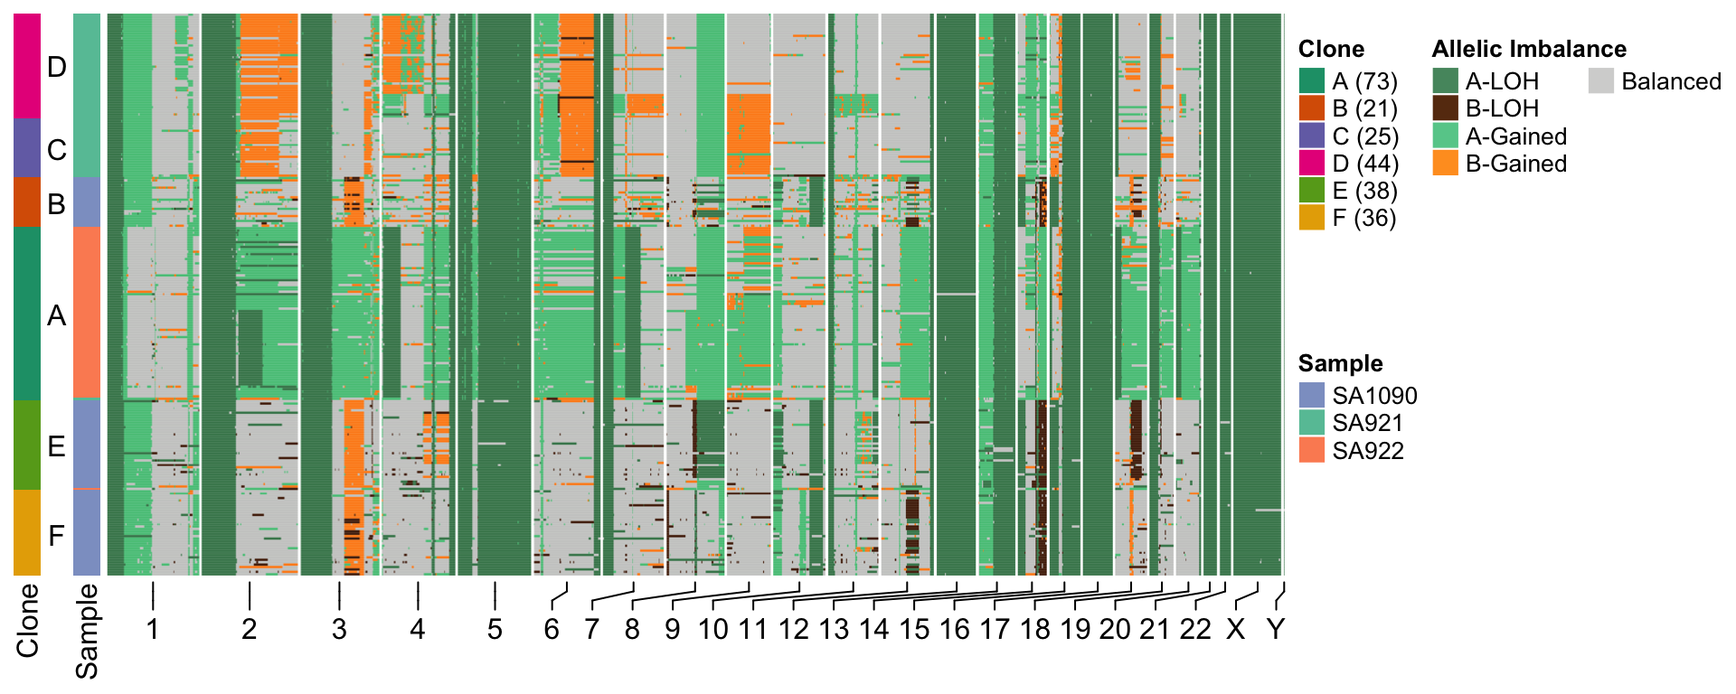
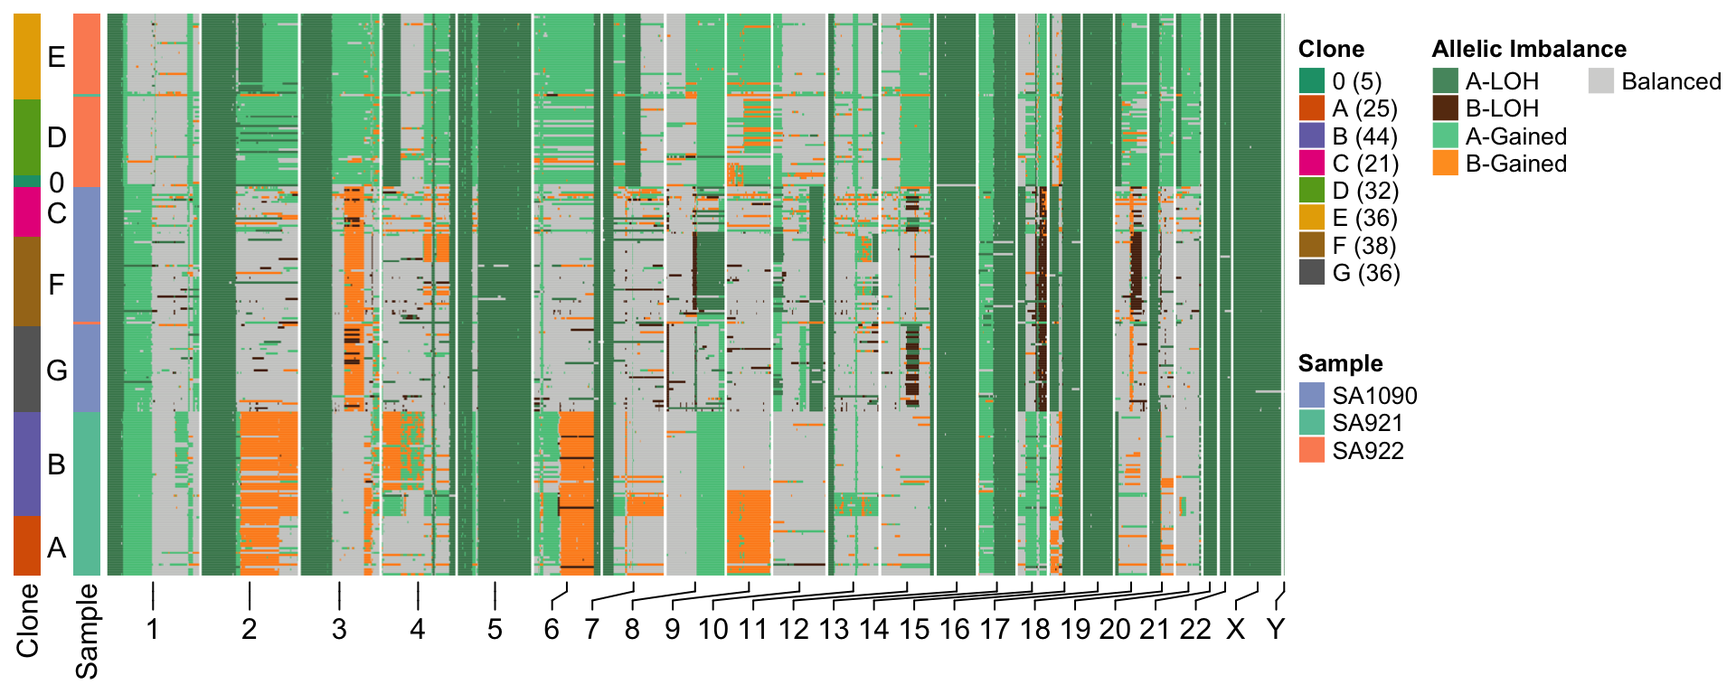
Built site for schnapps: 0.1.0@58209f3

Changed region(s): [[0.0, 0.0, 0.7188, 0.8438], [0.75, 0.0938, 0.8125, 0.4062]]

diff --git a/articles/ASCN.html b/articles/ASCN.html
@@ -141,28 +141,16 @@
 <p><img src="ASCN_files/figure-html/unnamed-chunk-6-1.png" width="960"></p>
 <p>Now we can plot the copy number heatmaps. First we’ll plot the heatmap based on copy number states. By default the <code>plotHeatmap</code> function does some clustering using hdbscan, we’ll set a seed so we get the same clustering for each of the heatmaps below.</p>
 <div class="sourceCode" id="cb7"><html><body><pre class="r"><span class="fu"><a href="https://rdrr.io/r/base/Random.html">set.seed</a></span>(<span class="fl">1</span>)
-<span class="fu">plotHeatmap</span>(<span class="no">ascn</span>, <span class="kw">plotcol</span> <span class="kw">=</span> <span class="st">"state"</span>, <span class="kw">plottree</span> <span class="kw">=</span> <span class="fl">FALSE</span>, <span class="kw">spacer_cols</span> <span class="kw">=</span> <span class="fl">15</span>)
-<span class="co">#&gt; </span>
-<span class="co">#&gt;  0  A  B  C  D  E  F  G </span>
-<span class="co">#&gt;  9 35 25 21 36 36 37 36</span></pre></body></html></div>
+<span class="fu">plotHeatmap</span>(<span class="no">ascn</span>, <span class="kw">plotcol</span> <span class="kw">=</span> <span class="st">"state"</span>, <span class="kw">plottree</span> <span class="kw">=</span> <span class="fl">FALSE</span>, <span class="kw">spacer_cols</span> <span class="kw">=</span> <span class="fl">15</span>)</pre></body></html></div>
 <p><img src="ASCN_files/figure-html/unnamed-chunk-7-1.png" width="960"></p>
 <p>Now we can plot some heatmaps to visualize the allele specific state. This heatmap plots the minor copy number state.</p>
-<div class="sourceCode" id="cb8"><html><body><pre class="r"><span class="fu">plotHeatmap</span>(<span class="no">ascn</span>, <span class="kw">plotcol</span> <span class="kw">=</span> <span class="st">"state_min"</span>, <span class="kw">plottree</span> <span class="kw">=</span> <span class="fl">FALSE</span>, <span class="kw">spacer_cols</span> <span class="kw">=</span> <span class="fl">15</span>)
-<span class="co">#&gt; </span>
-<span class="co">#&gt;  0  A  B  C  D  E  F  G </span>
-<span class="co">#&gt;  9 35 25 21 36 36 37 36</span></pre></body></html></div>
+<div class="sourceCode" id="cb8"><html><body><pre class="r"><span class="fu">plotHeatmap</span>(<span class="no">ascn</span>, <span class="kw">plotcol</span> <span class="kw">=</span> <span class="st">"state_min"</span>, <span class="kw">plottree</span> <span class="kw">=</span> <span class="fl">FALSE</span>, <span class="kw">spacer_cols</span> <span class="kw">=</span> <span class="fl">15</span>)</pre></body></html></div>
 <p><img src="ASCN_files/figure-html/unnamed-chunk-8-1.png" width="960"></p>
 <p>Allelic imbalance:</p>
-<div class="sourceCode" id="cb9"><html><body><pre class="r"><span class="fu">plotHeatmap</span>(<span class="no">ascn</span>, <span class="kw">plotcol</span> <span class="kw">=</span> <span class="st">"state_BAF"</span>, <span class="kw">plottree</span> <span class="kw">=</span> <span class="fl">FALSE</span>, <span class="kw">spacer_cols</span> <span class="kw">=</span> <span class="fl">15</span>)
-<span class="co">#&gt; </span>
-<span class="co">#&gt;  0  A  B  C  D  E  F  G </span>
-<span class="co">#&gt;  9 35 25 21 36 36 37 36</span></pre></body></html></div>
+<div class="sourceCode" id="cb9"><html><body><pre class="r"><span class="fu">plotHeatmap</span>(<span class="no">ascn</span>, <span class="kw">plotcol</span> <span class="kw">=</span> <span class="st">"state_BAF"</span>, <span class="kw">plottree</span> <span class="kw">=</span> <span class="fl">FALSE</span>, <span class="kw">spacer_cols</span> <span class="kw">=</span> <span class="fl">15</span>)</pre></body></html></div>
 <p><img src="ASCN_files/figure-html/unnamed-chunk-9-1.png" width="960"></p>
 <p>Discrete representation of allelic imbalance:</p>
-<div class="sourceCode" id="cb10"><html><body><pre class="r"><span class="fu">plotHeatmap</span>(<span class="no">ascn</span>, <span class="kw">plotcol</span> <span class="kw">=</span> <span class="st">"state_phase"</span>, <span class="kw">plottree</span> <span class="kw">=</span> <span class="fl">FALSE</span>, <span class="kw">spacer_cols</span> <span class="kw">=</span> <span class="fl">15</span>)
-<span class="co">#&gt; </span>
-<span class="co">#&gt;  0  A  B  C  D  E  F  G </span>
-<span class="co">#&gt;  9 35 25 21 36 36 37 36</span></pre></body></html></div>
+<div class="sourceCode" id="cb10"><html><body><pre class="r"><span class="fu">plotHeatmap</span>(<span class="no">ascn</span>, <span class="kw">plotcol</span> <span class="kw">=</span> <span class="st">"state_phase"</span>, <span class="kw">plottree</span> <span class="kw">=</span> <span class="fl">FALSE</span>, <span class="kw">spacer_cols</span> <span class="kw">=</span> <span class="fl">15</span>)</pre></body></html></div>
 <p><img src="ASCN_files/figure-html/unnamed-chunk-10-1.png" width="960"></p>
 <p>There are also some function to plot per cell BAF and state plots. You can specify a cell, or the default will take the first cell in the data frame.</p>
 <div class="sourceCode" id="cb11"><html><body><pre class="r"><span class="fu">plotCNprofileBAF</span>(<span class="no">ascn</span>)</pre></body></html></div>
@@ -187,26 +175,17 @@
 <a href="#callhaplotypespecificcn" class="anchor"></a><code>callHaplotypeSpecificCN</code>
 </h3>
 <p>Now we’ll do the analysis that phases haplotypes across cells.</p>
-<div class="sourceCode" id="cb13"><html><body><pre class="r"><span class="no">hscn</span> <span class="kw">&lt;-</span> <span class="fu"><a href="../reference/callHaplotypeSpecificCN.html">callHaplotypeSpecificCN</a></span>(<span class="no">CNbins</span>, <span class="no">haplotypes</span>, <span class="kw">phasebyarm</span> <span class="kw">=</span> <span class="fl">FALSE</span>)
-<span class="co">#&gt; </span>
-<span class="co">#&gt;  A  B  C </span>
-<span class="co">#&gt; 90 72 73</span></pre></body></html></div>
+<div class="sourceCode" id="cb13"><html><body><pre class="r"><span class="no">hscn</span> <span class="kw">&lt;-</span> <span class="fu"><a href="../reference/callHaplotypeSpecificCN.html">callHaplotypeSpecificCN</a></span>(<span class="no">CNbins</span>, <span class="no">haplotypes</span>, <span class="kw">phasebyarm</span> <span class="kw">=</span> <span class="fl">FALSE</span>)</pre></body></html></div>
 <p>We’ll now generate the same plots as before. We can see in the BAF per state plot that we now observe states with BAF &gt; 0.5 meaning that we see different alleles gained or lost in different cells.</p>
 <div class="sourceCode" id="cb14"><html><body><pre class="r"><span class="fu">plotBAFperstate</span>(<span class="no">hscn</span>, <span class="kw">maxstate</span> <span class="kw">=</span> <span class="fl">10</span>)</pre></body></html></div>
 <p><img src="ASCN_files/figure-html/unnamed-chunk-14-1.png" width="960"></p>
 <p>In the allelic imbalance heatmap we can see that some cells have gained the “B” allele and others the “A” allele resulting in imbalance spanning from 0 to 1.</p>
 <div class="sourceCode" id="cb15"><html><body><pre class="r"><span class="fu"><a href="https://rdrr.io/r/base/Random.html">set.seed</a></span>(<span class="fl">1</span>)
-<span class="fu">plotHeatmap</span>(<span class="no">hscn</span>, <span class="kw">plotcol</span> <span class="kw">=</span> <span class="st">"state_BAF"</span>, <span class="kw">plottree</span> <span class="kw">=</span> <span class="fl">FALSE</span>, <span class="kw">spacer_cols</span> <span class="kw">=</span> <span class="fl">15</span>)
-<span class="co">#&gt; </span>
-<span class="co">#&gt;  A  B  C  D  E  F  G </span>
-<span class="co">#&gt; 21 25 44 36 36 37 36</span></pre></body></html></div>
+<span class="fu">plotHeatmap</span>(<span class="no">hscn</span>, <span class="kw">plotcol</span> <span class="kw">=</span> <span class="st">"state_BAF"</span>, <span class="kw">plottree</span> <span class="kw">=</span> <span class="fl">FALSE</span>, <span class="kw">spacer_cols</span> <span class="kw">=</span> <span class="fl">15</span>)</pre></body></html></div>
 <p><img src="ASCN_files/figure-html/unnamed-chunk-15-1.png" width="960"></p>
 <p>In the discrete version of this plot we see similar patterns.</p>
 <div class="sourceCode" id="cb16"><html><body><pre class="r"><span class="fu"><a href="https://rdrr.io/r/base/Random.html">set.seed</a></span>(<span class="fl">1</span>)
-<span class="fu">plotHeatmap</span>(<span class="no">hscn</span>, <span class="kw">plotcol</span> <span class="kw">=</span> <span class="st">"state_phase"</span>, <span class="kw">plottree</span> <span class="kw">=</span> <span class="fl">FALSE</span>, <span class="kw">spacer_cols</span> <span class="kw">=</span> <span class="fl">15</span>)
-<span class="co">#&gt; </span>
-<span class="co">#&gt;  A  B  C  D  E  F  G </span>
-<span class="co">#&gt; 21 25 44 36 36 37 36</span></pre></body></html></div>
+<span class="fu">plotHeatmap</span>(<span class="no">hscn</span>, <span class="kw">plotcol</span> <span class="kw">=</span> <span class="st">"state_phase"</span>, <span class="kw">plottree</span> <span class="kw">=</span> <span class="fl">FALSE</span>, <span class="kw">spacer_cols</span> <span class="kw">=</span> <span class="fl">15</span>)</pre></body></html></div>
 <p><img src="ASCN_files/figure-html/unnamed-chunk-16-1.png" width="960"></p>
 <div class="sourceCode" id="cb17"><html><body><pre class="r"><span class="fu">plotCNprofileBAF</span>(<span class="no">hscn</span>)</pre></body></html></div>
 <p><img src="ASCN_files/figure-html/unnamed-chunk-17-1.png" width="960"></p>
@@ -230,24 +209,15 @@
 <div class="sourceCode" id="cb19"><html><body><pre class="r"><span class="no">CNbins_wide</span> <span class="kw">&lt;-</span> <span class="fu">widen_bins</span>(<span class="no">CNbins</span>, <span class="kw">binsize</span> <span class="kw">=</span> <span class="fl">2e6</span>)
 <span class="no">haplotypes_wide</span> <span class="kw">&lt;-</span> <span class="fu">widen_haplotypebins</span>(<span class="no">haplotypes</span>, <span class="kw">binsize</span> <span class="kw">=</span> <span class="fl">2e6</span>)
 
-<span class="no">hscn_wide</span> <span class="kw">&lt;-</span> <span class="fu"><a href="../reference/callHaplotypeSpecificCN.html">callHaplotypeSpecificCN</a></span>(<span class="no">CNbins_wide</span>, <span class="no">haplotypes_wide</span>, <span class="kw">minbins</span> <span class="kw">=</span> <span class="fl">10</span>, <span class="kw">minbinschr</span> <span class="kw">=</span> <span class="fl">2</span>)
-<span class="co">#&gt; </span>
-<span class="co">#&gt;  A  B  C </span>
-<span class="co">#&gt; 72 90 73</span></pre></body></html></div>
+<span class="no">hscn_wide</span> <span class="kw">&lt;-</span> <span class="fu"><a href="../reference/callHaplotypeSpecificCN.html">callHaplotypeSpecificCN</a></span>(<span class="no">CNbins_wide</span>, <span class="no">haplotypes_wide</span>, <span class="kw">minbins</span> <span class="kw">=</span> <span class="fl">10</span>, <span class="kw">minbinschr</span> <span class="kw">=</span> <span class="fl">2</span>)</pre></body></html></div>
 <div class="sourceCode" id="cb20"><html><body><pre class="r"><span class="fu">plotBAFperstate</span>(<span class="no">hscn_wide</span>, <span class="kw">maxstate</span> <span class="kw">=</span> <span class="fl">10</span>)</pre></body></html></div>
 <p><img src="ASCN_files/figure-html/unnamed-chunk-20-1.png" width="960"></p>
 <div class="sourceCode" id="cb21"><html><body><pre class="r"><span class="fu"><a href="https://rdrr.io/r/base/Random.html">set.seed</a></span>(<span class="fl">1</span>)
-<span class="fu">plotHeatmap</span>(<span class="no">hscn_wide</span>, <span class="kw">plotcol</span> <span class="kw">=</span> <span class="st">"state_BAF"</span>, <span class="kw">plottree</span> <span class="kw">=</span> <span class="fl">FALSE</span>, <span class="kw">spacer_cols</span> <span class="kw">=</span> <span class="fl">3</span>)
-<span class="co">#&gt; </span>
-<span class="co">#&gt;  A  B  C  D  E  F </span>
-<span class="co">#&gt; 73 21 25 44 38 36</span></pre></body></html></div>
+<span class="fu">plotHeatmap</span>(<span class="no">hscn_wide</span>, <span class="kw">plotcol</span> <span class="kw">=</span> <span class="st">"state_BAF"</span>, <span class="kw">plottree</span> <span class="kw">=</span> <span class="fl">FALSE</span>, <span class="kw">spacer_cols</span> <span class="kw">=</span> <span class="fl">3</span>)</pre></body></html></div>
 <p><img src="ASCN_files/figure-html/unnamed-chunk-21-1.png" width="960"></p>
 <p>In the discrete version of this plot we see similar patterns.</p>
 <div class="sourceCode" id="cb22"><html><body><pre class="r"><span class="fu"><a href="https://rdrr.io/r/base/Random.html">set.seed</a></span>(<span class="fl">1</span>)
-<span class="fu">plotHeatmap</span>(<span class="no">hscn_wide</span>, <span class="kw">plotcol</span> <span class="kw">=</span> <span class="st">"state_phase"</span>, <span class="kw">plottree</span> <span class="kw">=</span> <span class="fl">FALSE</span>, <span class="kw">spacer_cols</span> <span class="kw">=</span> <span class="fl">3</span>)
-<span class="co">#&gt; </span>
-<span class="co">#&gt;  A  B  C  D  E  F </span>
-<span class="co">#&gt; 73 21 25 44 38 36</span></pre></body></html></div>
+<span class="fu">plotHeatmap</span>(<span class="no">hscn_wide</span>, <span class="kw">plotcol</span> <span class="kw">=</span> <span class="st">"state_phase"</span>, <span class="kw">plottree</span> <span class="kw">=</span> <span class="fl">FALSE</span>, <span class="kw">spacer_cols</span> <span class="kw">=</span> <span class="fl">3</span>)</pre></body></html></div>
 <p><img src="ASCN_files/figure-html/unnamed-chunk-22-1.png" width="960"></p>
 <div class="sourceCode" id="cb23"><html><body><pre class="r"><span class="fu">plotCNprofileBAF</span>(<span class="no">hscn_wide</span>)</pre></body></html></div>
 <p><img src="ASCN_files/figure-html/unnamed-chunk-23-1.png" width="960"></p>

diff --git a/reference/callHaplotypeSpecificCN.html b/reference/callHaplotypeSpecificCN.html
@@ -131,10 +131,11 @@
     </div>
 
     <pre class="usage"><span class='fu'>callHaplotypeSpecificCN</span>(<span class='no'>CNbins</span>, <span class='no'>haplotypes</span>, <span class='kw'>eps</span> <span class='kw'>=</span> <span class='fl'>1e-12</span>,
-  <span class='kw'>loherror</span> <span class='kw'>=</span> <span class='fl'>0.02</span>, <span class='kw'>maxCN</span> <span class='kw'>=</span> <span class='fl'>12</span>, <span class='kw'>selftransitionprob</span> <span class='kw'>=</span> <span class='fl'>0.999</span>,
+  <span class='kw'>loherror</span> <span class='kw'>=</span> <span class='fl'>0.02</span>, <span class='kw'>maxCN</span> <span class='kw'>=</span> <span class='kw'>NULL</span>, <span class='kw'>selftransitionprob</span> <span class='kw'>=</span> <span class='fl'>0.999</span>,
   <span class='kw'>progressbar</span> <span class='kw'>=</span> <span class='fl'>TRUE</span>, <span class='kw'>ncores</span> <span class='kw'>=</span> <span class='fl'>1</span>, <span class='kw'>phasebyarm</span> <span class='kw'>=</span> <span class='fl'>FALSE</span>,
   <span class='kw'>minfrac</span> <span class='kw'>=</span> <span class='fl'>0.95</span>, <span class='kw'>likelihood</span> <span class='kw'>=</span> <span class='st'>"binomial"</span>, <span class='kw'>minbins</span> <span class='kw'>=</span> <span class='fl'>100</span>,
-  <span class='kw'>minbinschr</span> <span class='kw'>=</span> <span class='fl'>10</span>, <span class='kw'>phased_haplotypes</span> <span class='kw'>=</span> <span class='kw'>NULL</span>)</pre>
+  <span class='kw'>minbinschr</span> <span class='kw'>=</span> <span class='fl'>10</span>, <span class='kw'>phased_haplotypes</span> <span class='kw'>=</span> <span class='kw'>NULL</span>,
+  <span class='kw'>clustering_method</span> <span class='kw'>=</span> <span class='st'>"copy"</span>)</pre>
 
     <h2 class="hasAnchor" id="arguments"><a class="anchor" href="#arguments"></a>Arguments</h2>
     <table class="ref-arguments">
@@ -157,7 +158,7 @@
     </tr>
     <tr>
       <th>maxCN</th>
-      <td><p>maximum copy number to infer allele specific states, default=12</p></td>
+      <td><p>maximum copy number to infer allele specific states, default=NULL which will use the maximum state from CNbins</p></td>
     </tr>
     <tr>
       <th>selftransitionprob</th>
@@ -172,8 +173,28 @@
       <td><p>Number of cores to use, default = 1</p></td>
     </tr>
     <tr>
+      <th>minfrac</th>
+      <td><p>Minimum proportion of haplotypes to retain when clustering + phasing</p></td>
+    </tr>
+    <tr>
       <th>likelihood</th>
       <td><p>Likelihood model for HMM, default is <code>binomial</code>, other option is <code>betabinomial</code> or use <code>auto</code> and the algorithm will choose the likelihood that best fits the data.</p></td>
+    </tr>
+    <tr>
+      <th>minbins</th>
+      <td><p>Minimum number of bins containing both haplotype counts and copy number data for a cell to be included</p></td>
+    </tr>
+    <tr>
+      <th>minbinschr</th>
+      <td><p>Minimum number of bins containing both haplotype counts and copy number data per chromosome for a cell to be included</p></td>
+    </tr>
+    <tr>
+      <th>phased_haplotypes</th>
+      <td><p>Use this if you want to manually define the haplotypes phasing if for example the default heuristics used by schnapps does not return a good fit.</p></td>
+    </tr>
+    <tr>
+      <th>clustering_method</th>
+      <td><p>Method to use to cluster cells for haplotype phasing, default is <code>copy</code>, other option is <code>breakpoints</code></p></td>
     </tr>
     </table>
 
@@ -196,9 +217,7 @@
                        <span class='fu'><a href='https://rdrr.io/r/base/list.html'>list</a></span>(<span class='st'>"2"</span> <span class='kw'>=</span> <span class='fu'><a href='https://rdrr.io/r/base/c.html'>c</a></span>(<span class='fl'>6</span>,<span class='fl'>3</span>), <span class='st'>"3"</span> <span class='kw'>=</span> <span class='fu'><a href='https://rdrr.io/r/base/c.html'>c</a></span>(<span class='fl'>1</span>,<span class='fl'>0</span>))),
        <span class='kw'>loherror</span> <span class='kw'>=</span> <span class='fl'>0.02</span>,
        <span class='kw'>coverage</span> <span class='kw'>=</span> <span class='fl'>30</span>)</div><div class='output co'>#&gt; <span class='message'>Joining, by = c("chr", "start", "end", "hap_label")</span></div><div class='input'>
-<span class='no'>results</span> <span class='kw'>&lt;-</span> <span class='fu'>callHaplotypeSpecificCN</span>(<span class='no'>sim_data</span>$<span class='no'>CNbins</span>, <span class='no'>sim_data</span>$<span class='no'>haplotypes</span>)</div><div class='output co'>#&gt; <span class='message'>Finding overlapping cell IDs between CN data and haplotype data...</span></div><div class='output co'>#&gt; <span class='message'>Total number of cells in both CN and haplotypes: 40</span></div><div class='output co'>#&gt; <span class='message'>Number of cells in CN data: 40</span></div><div class='output co'>#&gt; <span class='message'>Removing cells from CN data...</span></div><div class='output co'>#&gt; <span class='message'>Number of cells in haplotype data: 40</span></div><div class='output co'>#&gt; <span class='message'>Removing cells from haplotype data...</span></div><div class='output co'>#&gt; <span class='message'>Reformatting haplotypes</span></div><div class='output co'>#&gt; <span class='message'>Pivot data frame...</span></div><div class='output co'>#&gt; <span class='message'>Phase haplotypes...</span></div><div class='output co'>#&gt; <span class='message'>Phasing based on distribution across all cells</span></div><div class='output co'>#&gt; <span class='message'>Join phased haplotypes...</span></div><div class='output co'>#&gt; <span class='message'>Reorder haplotypes based on phase...</span></div><div class='output co'>#&gt; <span class='message'>Joining bins and haplotypes...</span></div><div class='output co'>#&gt; <span class='message'>Calculate BAF per bin...</span></div><div class='output co'>#&gt; <span class='message'>Total number of cells after removing cells with &lt; 100 bins: 40</span></div><div class='output co'>#&gt; <span class='message'>Using 2 cells for clustering...</span></div><div class='output co'>#&gt; <span class='message'>Creating CN matrix...</span></div><div class='output co'>#&gt; <span class='message'>Calculating UMAP dimensionality reduction...</span></div><div class='output co'>#&gt; <span class='message'>Clustering cells using hdbscan...</span></div><div class='output co'>#&gt; <span class='message'>Identified 2 clusters</span></div><div class='output co'>#&gt; <span class='message'>Distribution of clusters:</span></div><div class='output co'>#&gt; 
-#&gt;  A  B 
-#&gt; 20 20 </div><div class='output co'>#&gt; <span class='message'>Joining, by = "cell_id"</span></div><div class='output co'>#&gt; <span class='message'>Phasing by chromosome (not arm level)..</span></div><div class='output co'>#&gt; <span class='message'>Finding overlapping cell IDs between CN data and haplotype data...</span></div><div class='output co'>#&gt; <span class='message'>Total number of cells in both CN and haplotypes: 40</span></div><div class='output co'>#&gt; <span class='message'>Number of cells in CN data: 40</span></div><div class='output co'>#&gt; <span class='message'>Removing cells from CN data...</span></div><div class='output co'>#&gt; <span class='message'>Number of cells in haplotype data: 40</span></div><div class='output co'>#&gt; <span class='message'>Removing cells from haplotype data...</span></div><div class='output co'>#&gt; <span class='message'>Reformatting haplotypes</span></div><div class='output co'>#&gt; <span class='message'>Pivot data frame...</span></div><div class='output co'>#&gt; <span class='message'>Phase haplotypes...</span></div><div class='output co'>#&gt; <span class='message'>Join phased haplotypes...</span></div><div class='output co'>#&gt; <span class='message'>Reorder haplotypes based on phase...</span></div><div class='output co'>#&gt; <span class='message'>Joining bins and haplotypes...</span></div><div class='output co'>#&gt; <span class='message'>Calculate BAF per bin...</span></div><div class='output co'>#&gt; <span class='message'>Total number of cells after removing cells with &lt; 100 bins: 40</span></div><div class='output co'>#&gt; <span class='message'>Average distance from median to expected BAF = 0.0068</span></div><div class='input'>
+<span class='no'>results</span> <span class='kw'>&lt;-</span> <span class='fu'>callHaplotypeSpecificCN</span>(<span class='no'>sim_data</span>$<span class='no'>CNbins</span>, <span class='no'>sim_data</span>$<span class='no'>haplotypes</span>)</div><div class='output co'>#&gt; <span class='message'>Finding overlapping cell IDs between CN data and haplotype data...</span></div><div class='output co'>#&gt; <span class='message'>Total number of cells in both CN and haplotypes: 40</span></div><div class='output co'>#&gt; <span class='message'>Number of cells in CN data: 40</span></div><div class='output co'>#&gt; <span class='message'>Removing cells from CN data...</span></div><div class='output co'>#&gt; <span class='message'>Number of cells in haplotype data: 40</span></div><div class='output co'>#&gt; <span class='message'>Removing cells from haplotype data...</span></div><div class='output co'>#&gt; <span class='message'>Reformatting haplotypes</span></div><div class='output co'>#&gt; <span class='message'>Pivot data frame...</span></div><div class='output co'>#&gt; <span class='message'>Phase haplotypes...</span></div><div class='output co'>#&gt; <span class='message'>Phasing based on distribution across all cells</span></div><div class='output co'>#&gt; <span class='message'>Join phased haplotypes...</span></div><div class='output co'>#&gt; <span class='message'>Reorder haplotypes based on phase...</span></div><div class='output co'>#&gt; <span class='message'>Joining bins and haplotypes...</span></div><div class='output co'>#&gt; <span class='message'>Calculate BAF per bin...</span></div><div class='output co'>#&gt; <span class='message'>Total number of cells after removing cells with &lt; 100 bins: 40</span></div><div class='output co'>#&gt; <span class='message'>Using 2 cells for clustering...</span></div><div class='output co'>#&gt; <span class='message'>Creating CN matrix...</span></div><div class='output co'>#&gt; <span class='message'>Calculating UMAP dimensionality reduction...</span></div><div class='output co'>#&gt; <span class='message'>Clustering cells using hdbscan...</span></div><div class='output co'>#&gt; <span class='message'>Identified 2 clusters</span></div><div class='output co'>#&gt; <span class='message'>Distribution of clusters:</span></div><div class='output co'>#&gt; <span class='message'>  Cluster A:20</span></div><div class='output co'>#&gt; <span class='message'>  Cluster B:20</span></div><div class='output co'>#&gt; <span class='message'>Joining, by = "cell_id"</span></div><div class='output co'>#&gt; <span class='message'>Phasing by chromosome (not arm level)..</span></div><div class='output co'>#&gt; <span class='message'>Finding overlapping cell IDs between CN data and haplotype data...</span></div><div class='output co'>#&gt; <span class='message'>Total number of cells in both CN and haplotypes: 40</span></div><div class='output co'>#&gt; <span class='message'>Number of cells in CN data: 40</span></div><div class='output co'>#&gt; <span class='message'>Removing cells from CN data...</span></div><div class='output co'>#&gt; <span class='message'>Number of cells in haplotype data: 40</span></div><div class='output co'>#&gt; <span class='message'>Removing cells from haplotype data...</span></div><div class='output co'>#&gt; <span class='message'>Reformatting haplotypes</span></div><div class='output co'>#&gt; <span class='message'>Pivot data frame...</span></div><div class='output co'>#&gt; <span class='message'>Phase haplotypes...</span></div><div class='output co'>#&gt; <span class='message'>Join phased haplotypes...</span></div><div class='output co'>#&gt; <span class='message'>Reorder haplotypes based on phase...</span></div><div class='output co'>#&gt; <span class='message'>Joining bins and haplotypes...</span></div><div class='output co'>#&gt; <span class='message'>Calculate BAF per bin...</span></div><div class='output co'>#&gt; <span class='message'>Total number of cells after removing cells with &lt; 100 bins: 40</span></div><div class='output co'>#&gt; <span class='message'>Average distance from median to expected BAF = 0.0068</span></div><div class='input'>
 </div></pre>
   </div>
   <div class="col-md-3 hidden-xs hidden-sm" id="pkgdown-sidebar">

diff --git a/articles/BetaBinom.html b/articles/BetaBinom.html
@@ -101,9 +101,6 @@
 <span class="fu"><a href="https://rdrr.io/r/utils/data.html">data</a></span>(<span class="st">"CNbins"</span>)
 <span class="no">haplotypes</span> <span class="kw">&lt;-</span> <span class="fu">format_haplotypes_dlp</span>(<span class="no">haplotypes</span>, <span class="no">CNbins</span>)
 <span class="no">hscn</span> <span class="kw">&lt;-</span> <span class="fu"><a href="../reference/callHaplotypeSpecificCN.html">callHaplotypeSpecificCN</a></span>(<span class="no">CNbins</span>, <span class="no">haplotypes</span>, <span class="kw">likelihood</span> <span class="kw">=</span> <span class="st">"binomial"</span>)
-<span class="co">#&gt; </span>
-<span class="co">#&gt;  A  B  C </span>
-<span class="co">#&gt; 90 72 73</span>
 
 <span class="fu"><a href="https://rdrr.io/r/base/print.html">print</a></span>(<span class="no">hscn</span>)
 <span class="co">#&gt; Haplotype specific copy number object </span>
@@ -122,9 +119,6 @@
 <span class="co">#&gt; VGLM    linear loop  5 :  loglikelihood = -313444.5835</span>
 <span class="co">#&gt; VGLM    linear loop  6 :  loglikelihood = -313444.5788</span>
 <span class="co">#&gt; VGLM    linear loop  7 :  loglikelihood = -313444.5788</span>
-<span class="co">#&gt; </span>
-<span class="co">#&gt;  A  B  C </span>
-<span class="co">#&gt; 90 72 73</span>
 
 <span class="fu"><a href="https://rdrr.io/r/base/print.html">print</a></span>(<span class="no">hscn_bb</span>)
 <span class="co">#&gt; Haplotype specific copy number object </span>
@@ -141,19 +135,13 @@
 <div id="binomial-model" class="section level3">
 <h3 class="hasAnchor">
 <a href="#binomial-model" class="anchor"></a>Binomial model</h3>
-<div class="sourceCode" id="cb3"><html><body><pre class="r"><span class="fu">plotHeatmap</span>(<span class="no">hscn</span>, <span class="kw">plotcol</span> <span class="kw">=</span> <span class="st">"state_BAF"</span>, <span class="kw">plottree</span> <span class="kw">=</span> <span class="fl">FALSE</span>, <span class="kw">spacer_cols</span> <span class="kw">=</span> <span class="fl">15</span>)
-<span class="co">#&gt; </span>
-<span class="co">#&gt;  A  B  C  D  E  F  G </span>
-<span class="co">#&gt; 21 25 44 36 36 37 36</span></pre></body></html></div>
+<div class="sourceCode" id="cb3"><html><body><pre class="r"><span class="fu">plotHeatmap</span>(<span class="no">hscn</span>, <span class="kw">plotcol</span> <span class="kw">=</span> <span class="st">"state_BAF"</span>, <span class="kw">plottree</span> <span class="kw">=</span> <span class="fl">FALSE</span>, <span class="kw">spacer_cols</span> <span class="kw">=</span> <span class="fl">15</span>)</pre></body></html></div>
 <p><img src="BetaBinom_files/figure-html/unnamed-chunk-3-1.png" width="960"></p>
 </div>
 <div id="beta-binomial-model" class="section level3">
 <h3 class="hasAnchor">
 <a href="#beta-binomial-model" class="anchor"></a>Beta-Binomial model</h3>
-<div class="sourceCode" id="cb4"><html><body><pre class="r"><span class="fu">plotHeatmap</span>(<span class="no">hscn_bb</span>, <span class="kw">plotcol</span> <span class="kw">=</span> <span class="st">"state_BAF"</span>, <span class="kw">plottree</span> <span class="kw">=</span> <span class="fl">FALSE</span>, <span class="kw">spacer_cols</span> <span class="kw">=</span> <span class="fl">15</span>)
-<span class="co">#&gt; </span>
-<span class="co">#&gt;  A  B  C  D  E  F  G </span>
-<span class="co">#&gt; 21 25 44 36 36 37 36</span></pre></body></html></div>
+<div class="sourceCode" id="cb4"><html><body><pre class="r"><span class="fu">plotHeatmap</span>(<span class="no">hscn_bb</span>, <span class="kw">plotcol</span> <span class="kw">=</span> <span class="st">"state_BAF"</span>, <span class="kw">plottree</span> <span class="kw">=</span> <span class="fl">FALSE</span>, <span class="kw">spacer_cols</span> <span class="kw">=</span> <span class="fl">15</span>)</pre></body></html></div>
 <p><img src="BetaBinom_files/figure-html/unnamed-chunk-4-1.png" width="960"></p>
 </div>
 <div id="qc-plot" class="section level3">
@@ -164,26 +152,44 @@
 <p><img src="BetaBinom_files/figure-html/unnamed-chunk-5-1.png" width="960"></p>
 <p>We can check how similar the results are by comparing the two dataframes. We find for this data that the results are very similar.</p>
 <div class="sourceCode" id="cb6"><html><body><pre class="r"><span class="fu"><a href="https://rdrr.io/r/base/print.html">print</a></span>(<span class="fu"><a href="https://rdrr.io/r/base/dim.html">dim</a></span>(<span class="no">hscn</span>$<span class="no">data</span>))
-<span class="co">#&gt; [1] 507878     19</span>
+<span class="co">#&gt; [1] 507859     19</span>
 <span class="fu"><a href="https://rdrr.io/r/base/print.html">print</a></span>(<span class="fu"><a href="https://rdrr.io/r/base/dim.html">dim</a></span>(<span class="no">hscn_bb</span>$<span class="no">data</span>))
 <span class="co">#&gt; [1] 507878     19</span>
 <span class="fu"><a href="https://rdrr.io/r/base/all.equal.html">all.equal</a></span>(<span class="fu">orderdf</span>(<span class="no">hscn</span>$<span class="no">data</span>), <span class="fu">orderdf</span>(<span class="no">hscn_bb</span>$<span class="no">data</span>))
-<span class="co">#&gt; [1] "Component \"state_min\": Mean relative difference: 0.5903767"</span>
-<span class="co">#&gt; [2] "Component \"Maj\": Mean relative difference: 0.3549388"      </span>
-<span class="co">#&gt; [3] "Component \"Min\": Mean relative difference: 0.5137029"      </span>
-<span class="co">#&gt; [4] "Component \"state_AS_phased\": 5535 string mismatches"       </span>
-<span class="co">#&gt; [5] "Component \"state_AS\": 1601 string mismatches"              </span>
-<span class="co">#&gt; [6] "Component \"LOH\": 1385 string mismatches"                   </span>
-<span class="co">#&gt; [7] "Component \"phase\": 3354 string mismatches"                 </span>
-<span class="co">#&gt; [8] "Component \"state_phase\": 4371 string mismatches"           </span>
-<span class="co">#&gt; [9] "Component \"state_BAF\": Mean relative difference: 0.6628337"</span></pre></body></html></div>
+<span class="co">#&gt;  [1] "Attributes: &lt; Component \"row.names\": Numeric: lengths (507860, 507879) differ &gt;"              </span>
+<span class="co">#&gt;  [2] "Component \"chr\": Lengths (507860, 507879) differ (string compare on first 507860)"            </span>
+<span class="co">#&gt;  [3] "Component \"chr\": 65641 string mismatches"                                                     </span>
+<span class="co">#&gt;  [4] "Component \"start\": Numeric: lengths (507860, 507879) differ"                                  </span>
+<span class="co">#&gt;  [5] "Component \"end\": Numeric: lengths (507860, 507879) differ"                                    </span>
+<span class="co">#&gt;  [6] "Component \"cell_id\": Lengths (507860, 507879) differ (string compare on first 507860)"        </span>
+<span class="co">#&gt;  [7] "Component \"cell_id\": 'is.NA' value mismatch: 0 in current 1 in target"                        </span>
+<span class="co">#&gt;  [8] "Component \"state\": Numeric: lengths (507860, 507879) differ"                                  </span>
+<span class="co">#&gt;  [9] "Component \"copy\": Numeric: lengths (507860, 507879) differ"                                   </span>
+<span class="co">#&gt; [10] "Component \"alleleA\": Numeric: lengths (507860, 507879) differ"                                </span>
+<span class="co">#&gt; [11] "Component \"alleleB\": Numeric: lengths (507860, 507879) differ"                                </span>
+<span class="co">#&gt; [12] "Component \"totalcounts\": Numeric: lengths (507860, 507879) differ"                            </span>
+<span class="co">#&gt; [13] "Component \"BAF\": Numeric: lengths (507860, 507879) differ"                                    </span>
+<span class="co">#&gt; [14] "Component \"state_min\": Numeric: lengths (507860, 507879) differ"                              </span>
+<span class="co">#&gt; [15] "Component \"Maj\": Numeric: lengths (507860, 507879) differ"                                    </span>
+<span class="co">#&gt; [16] "Component \"Min\": Numeric: lengths (507860, 507879) differ"                                    </span>
+<span class="co">#&gt; [17] "Component \"state_AS_phased\": Lengths (507860, 507879) differ (string compare on first 507860)"</span>
+<span class="co">#&gt; [18] "Component \"state_AS_phased\": 'is.NA' value mismatch: 0 in current 1 in target"                </span>
+<span class="co">#&gt; [19] "Component \"state_AS\": Lengths (507860, 507879) differ (string compare on first 507860)"       </span>
+<span class="co">#&gt; [20] "Component \"state_AS\": 'is.NA' value mismatch: 0 in current 1 in target"                       </span>
+<span class="co">#&gt; [21] "Component \"LOH\": Lengths (507860, 507879) differ (string compare on first 507860)"            </span>
+<span class="co">#&gt; [22] "Component \"LOH\": 'is.NA' value mismatch: 0 in current 1 in target"                            </span>
+<span class="co">#&gt; [23] "Component \"phase\": Lengths (507860, 507879) differ (string compare on first 507860)"          </span>
+<span class="co">#&gt; [24] "Component \"phase\": 'is.NA' value mismatch: 0 in current 1 in target"                          </span>
+<span class="co">#&gt; [25] "Component \"state_phase\": Lengths (507860, 507879) differ (string compare on first 507860)"    </span>
+<span class="co">#&gt; [26] "Component \"state_phase\": 'is.NA' value mismatch: 0 in current 1 in target"                    </span>
+<span class="co">#&gt; [27] "Component \"state_BAF\": Numeric: lengths (507860, 507879) differ"</span></pre></body></html></div>
 <p>Another thing we can check is the total number of segments identified by the HMM. Using the beta-binomial model should reduce the influence of any noisy regions and thus we might expect fewer segments. We do observe fewer segments in the beta-binomial model.</p>
 <div class="sourceCode" id="cb7"><html><body><pre class="r"><span class="no">segs</span> <span class="kw">&lt;-</span> <span class="fu">create_segments</span>(<span class="no">hscn</span>$<span class="no">data</span>, <span class="kw">field</span> <span class="kw">=</span> <span class="st">"state_AS_phased"</span>)
 
 <span class="no">segs_bb</span> <span class="kw">&lt;-</span> <span class="fu">create_segments</span>(<span class="no">hscn_bb</span>$<span class="no">data</span>, <span class="kw">field</span> <span class="kw">=</span> <span class="st">"state_AS_phased"</span>)
 
 <span class="fu"><a href="https://rdrr.io/r/base/print.html">print</a></span>(<span class="fu"><a href="https://rdrr.io/r/base/dim.html">dim</a></span>(<span class="no">segs</span>))
-<span class="co">#&gt; [1] 34454     5</span>
+<span class="co">#&gt; [1] 34140     5</span>
 <span class="fu"><a href="https://rdrr.io/r/base/print.html">print</a></span>(<span class="fu"><a href="https://rdrr.io/r/base/dim.html">dim</a></span>(<span class="no">segs_bb</span>))
 <span class="co">#&gt; [1] 31224     5</span></pre></body></html></div>
 </div>

diff --git a/reference/callAlleleSpecificCN.html b/reference/callAlleleSpecificCN.html
@@ -131,7 +131,7 @@
     </div>
 
     <pre class="usage"><span class='fu'>callAlleleSpecificCN</span>(<span class='no'>CNbins</span>, <span class='no'>haplotypes</span>, <span class='kw'>eps</span> <span class='kw'>=</span> <span class='fl'>1e-12</span>, <span class='kw'>loherror</span> <span class='kw'>=</span> <span class='fl'>0.02</span>,
-  <span class='kw'>maxCN</span> <span class='kw'>=</span> <span class='fl'>12</span>, <span class='kw'>selftransitionprob</span> <span class='kw'>=</span> <span class='fl'>0.999</span>, <span class='kw'>progressbar</span> <span class='kw'>=</span> <span class='fl'>TRUE</span>,
+  <span class='kw'>maxCN</span> <span class='kw'>=</span> <span class='kw'>NULL</span>, <span class='kw'>selftransitionprob</span> <span class='kw'>=</span> <span class='fl'>0.999</span>, <span class='kw'>progressbar</span> <span class='kw'>=</span> <span class='fl'>TRUE</span>,
   <span class='kw'>ncores</span> <span class='kw'>=</span> <span class='fl'>1</span>, <span class='kw'>likelihood</span> <span class='kw'>=</span> <span class='st'>"binomial"</span>, <span class='kw'>minbins</span> <span class='kw'>=</span> <span class='fl'>100</span>,
   <span class='kw'>minbinschr</span> <span class='kw'>=</span> <span class='fl'>10</span>)</pre>
 
@@ -156,7 +156,7 @@
     </tr>
     <tr>
       <th>maxCN</th>
-      <td><p>maximum copy number to infer allele specific states, default= 12</p></td>
+      <td><p>maximum copy number to infer allele specific states, default=NULL which will use the maximum state from CNbins</p></td>
     </tr>
     <tr>
       <th>selftransitionprob</th>

diff --git a/articles/karyoplot.html b/articles/karyoplot.html
@@ -105,10 +105,7 @@
 <div class="sourceCode" id="cb3"><html><body><pre class="r"><span class="fu"><a href="https://rdrr.io/r/utils/data.html">data</a></span>(<span class="no">haplotypes</span>)
 <span class="fu"><a href="https://rdrr.io/r/utils/data.html">data</a></span>(<span class="no">CNbins</span>)
 <span class="no">haplotypes</span> <span class="kw">&lt;-</span> <span class="fu">format_haplotypes_dlp</span>(<span class="no">haplotypes</span>, <span class="no">CNbins</span>)
-<span class="no">hscn</span> <span class="kw">&lt;-</span> <span class="fu"><a href="../reference/callHaplotypeSpecificCN.html">callHaplotypeSpecificCN</a></span>(<span class="no">CNbins</span>, <span class="no">haplotypes</span>, <span class="kw">phasebyarm</span> <span class="kw">=</span> <span class="fl">FALSE</span>)
-<span class="co">#&gt; </span>
-<span class="co">#&gt;  A  B  C </span>
-<span class="co">#&gt; 90 72 73</span></pre></body></html></div>
+<span class="no">hscn</span> <span class="kw">&lt;-</span> <span class="fu"><a href="../reference/callHaplotypeSpecificCN.html">callHaplotypeSpecificCN</a></span>(<span class="no">CNbins</span>, <span class="no">haplotypes</span>, <span class="kw">phasebyarm</span> <span class="kw">=</span> <span class="fl">FALSE</span>)</pre></body></html></div>
 </div>
 <div id="plotting" class="section level2">
 <h2 class="hasAnchor">
